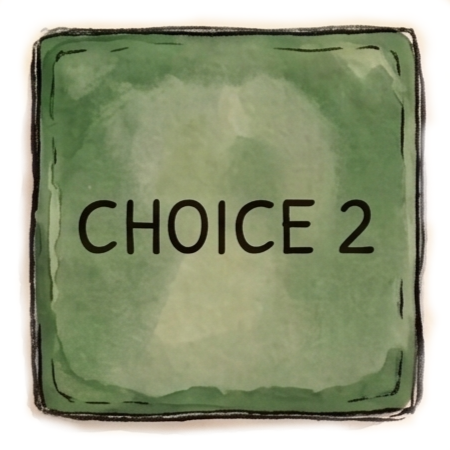
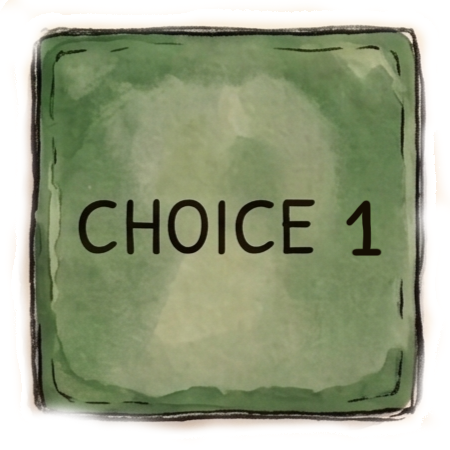
version 5.1.5

diff --git a/sketch.js b/sketch.js
@@ -4,6 +4,7 @@ const ASSET_DIR = "Bremen Image Material";
 const LIGHT_START_THRESHOLD = 650;
 const MINI_GAME_LIGHT_THRESHOLD = 650;
 const SERIAL_BAUD_RATE = 9600;
+const MINI_GAME_CATCH_WINDOW = 82;
 
 const COLORS = {
   ink: "#2b1b10",
@@ -50,6 +51,7 @@ const FILES = {
   yellowChoice1: "UI Buttons yellow button choice 1.png",
   greenChoice2: "UI Buttons green button choice 2.png",
   whiteChoice3: "UI Buttons white button choice 3.png",
+  redRetry: "UI Buttons Red choice Retry .png",
   sliderUi: "Slider UI.png",
   lightUi: "Light sensor UI.png",
   textBox: "text box ui.png",
@@ -106,6 +108,7 @@ function draw() {
   else if (appState === "choice") drawChoicePage();
   else if (appState === "miniIntro") drawMiniIntro();
   else if (appState === "miniGame") drawMiniGame();
+  else if (appState === "miniResult") drawMiniResult();
   else if (appState === "fade") drawFade();
 
   pop();
@@ -148,32 +151,29 @@ function drawSceneImage(assetKey, overlay = 52) {
 
 function drawStart() {
   drawSceneImage("start", 48);
-  drawTextBoxUi(74, 74, 610, 482);
-  fill(COLORS.ink);
+  fill(COLORS.paper);
+  textAlign(CENTER, CENTER);
   textStyle(BOLD);
-  textSize(50);
-  text("The Bremen", 116, 142);
-  text("Town Musicians", 116, 200);
+  textSize(58);
+  text("The Bremen", 688, 206);
+  text("Town Musicians", 688, 274);
 
   textStyle(NORMAL);
-  textSize(23);
-  textLeading(32);
-  text(
-    `Cover the light sensor until the value is ${LIGHT_START_THRESHOLD} or higher. The story begins from this page once the threshold is met.`,
-    116,
-    258,
-    522,
-    128
-  );
-
-  drawUiImage("lightUi", 112, 406, 134, 98);
-  drawUiImage("redContinue", 112, 506, 42, 42);
-  fill(COLORS.ink);
-  textSize(21);
-  text(`Current light: ${lastLightValue ?? "--"}`, 270, 452);
   textSize(18);
-  fill("#684221");
-  text("Red continues. Yellow, green, and white choose when choices appear.", 170, 534, 468);
+  textLeading(22);
+  const buttonY = 390;
+  drawUiImage("lightUi", 284, buttonY - 34, 128, 92);
+  drawUiImage("redContinue", 510, buttonY, 54, 54);
+  drawUiImage("yellowChoice1", 662, buttonY, 54, 54);
+  drawUiImage("greenChoice2", 814, buttonY, 54, 54);
+  drawUiImage("whiteChoice3", 966, buttonY, 54, 54);
+  fill(COLORS.paper);
+  text(`Start story\nLight ${lastLightValue ?? "--"}/${LIGHT_START_THRESHOLD}`, 348, 484, 170, 54);
+  text("Continue", 537, 484, 130, 44);
+  text("Choice 1", 689, 484, 130, 44);
+  text("Choice 2", 841, 484, 130, 44);
+  text("Choice 3", 993, 484, 130, 44);
+  textAlign(LEFT, BASELINE);
 }
 
 function drawNarrativePage() {
@@ -204,14 +204,14 @@ function drawMiniGame() {
   drawSceneImage("lookingInside", 34);
   updateMiniGame();
 
-  drawPanel(54, 44, 468, 114, COLORS.panelStrong);
-  fill(COLORS.paper);
+  drawTextBoxUi(54, 58, 500, 128);
+  fill(COLORS.ink);
   textStyle(BOLD);
   textSize(28);
-  text("Stack the Musicians", 82, 86);
+  text("Stack the Musicians", 92, 100);
   textStyle(NORMAL);
   textSize(18);
-  text(`Catch the falling companion with the donkey. Slider value: ${Math.round(lastSliderValue)}`, 82, 122);
+  text(`Catch the falling companion with the donkey.\nSlider value: ${Math.round(lastSliderValue)}`, 92, 128);
   drawUiImage("sliderUi", 928, 52, 324, 65);
 
   imageMode(CENTER);
@@ -221,6 +221,33 @@ function drawMiniGame() {
     image(img, miniGame.faller.x, miniGame.faller.y, animalWidth(miniGame.faller.kind), animalHeight(miniGame.faller.kind));
   }
   imageMode(CORNER);
+}
+
+function drawMiniResult() {
+  drawSceneImage("lookingInside", 38);
+  imageMode(CENTER);
+  drawStackedDonkeyAndCompanions();
+  imageMode(CORNER);
+
+  const caughtAny = miniGame.stack.length > 0;
+  drawTextBoxUi(384, 82, 608, caughtAny ? 176 : 224);
+  fill(COLORS.ink);
+  textAlign(CENTER, TOP);
+  textStyle(BOLD);
+  textSize(30);
+  text(caughtAny ? "Good job, you built a tower!" : "Try building the tower again.", 430, 128, 516, 44);
+  textStyle(NORMAL);
+  textSize(18);
+  textLeading(24);
+  if (caughtAny) {
+    drawUiImage("redContinue", 638, 184, 54, 54);
+    text("Press red to continue.", 430, 248, 516, 30);
+  } else {
+    text("Catch at least one animal before the story continues.", 430, 180, 516, 52);
+    drawUiImage("redRetry", 638, 244, 54, 54);
+    text("Press red to retry.", 430, 310, 516, 30);
+  }
+  textAlign(LEFT, BASELINE);
 }
 
 function drawFade() {
@@ -259,10 +286,10 @@ function drawTextBox(body, footer, position) {
 }
 
 function getTextBox(position) {
-  if (position === "top") return { x: 74, y: 48, w: 1228, h: 178, minW: 660, minH: 126, fontSize: 21, leading: 28, padX: 42, padY: 34 };
-  if (position === "right") return { x: 716, y: 82, w: 586, h: 394, minW: 430, minH: 158, fontSize: 21, leading: 29, padX: 38, padY: 36 };
-  if (position === "bottom") return { x: 84, y: 514, w: 1208, h: 180, minW: 620, minH: 128, fontSize: 20, leading: 27, padX: 42, padY: 34 };
-  return { x: 74, y: 82, w: 610, h: 420, minW: 430, minH: 158, fontSize: 21, leading: 29, padX: 38, padY: 36 };
+  if (position === "top") return { x: 74, y: 74, w: 1228, h: 178, minW: 660, minH: 126, fontSize: 21, leading: 28, padX: 42, padY: 34 };
+  if (position === "right") return { x: 716, y: 112, w: 586, h: 394, minW: 430, minH: 158, fontSize: 21, leading: 29, padX: 38, padY: 36 };
+  if (position === "bottom") return { x: 84, y: 536, w: 1208, h: 180, minW: 620, minH: 128, fontSize: 20, leading: 27, padX: 42, padY: 34 };
+  return { x: 74, y: 112, w: 610, h: 420, minW: 430, minH: 158, fontSize: 21, leading: 29, padX: 38, padY: 36 };
 }
 
 function layoutTextBox(body, footer, position) {
@@ -353,17 +380,13 @@ function drawTextBoxUi(x, y, w, h) {
 function drawChoiceCard(x, y, w, h, option, index) {
   drawTextBoxUi(x, y, w, h);
   const uiKey = index === 0 ? "yellowChoice1" : index === 1 ? "greenChoice2" : "whiteChoice3";
-  drawUiImage(uiKey, x + 22, y + 22, 62, 62);
+  drawUiImage(uiKey, x + w / 2 - 31, y + 18, 62, 62);
   fill(COLORS.ink);
   textAlign(LEFT, TOP);
-  textStyle(BOLD);
-  textSize(20);
-  textLeading(24);
-  text(option.label, x + 100, y + 33, w - 128, 32);
   textStyle(NORMAL);
   textSize(15);
   textLeading(20);
-  text(option.text, x + 30, y + 98, w - 60, h - 120);
+  text(option.text, x + 30, y + 96, w - 60, h - 118);
   textAlign(LEFT, BASELINE);
 }
 
@@ -748,23 +771,41 @@ function updateMiniGame() {
   const faller = miniGame.faller;
   faller.y += faller.speed;
   faller.x = faller.baseX + sin(frameCount * 0.055 + faller.phase) * 95;
+  const catchY = stackTargetY(miniGame.stack.length);
 
-  if (faller.y > 535 && abs(faller.x - miniGame.donkeyX) < 150) {
+  if (faller.y > catchY && faller.y < catchY + MINI_GAME_CATCH_WINDOW && abs(faller.x - miniGame.donkeyX) < 150) {
     miniGame.stack.push(faller.kind);
     miniGame.currentIndex += 1;
-    if (miniGame.currentIndex >= miniGame.animals.length) {
-      fade = { startedAt: millis(), image: "crash" };
-      appState = "fade";
-    } else {
-      spawnNextFaller();
-    }
-  } else if (faller.y > 820) {
+    advanceMiniGameFaller();
+  } else if (faller.y > catchY + MINI_GAME_CATCH_WINDOW) {
+    miniGame.currentIndex += 1;
+    advanceMiniGameFaller();
+  }
+}
+
+function stackTargetY(index) {
+  return 640 - 110 - index * 82;
+}
+
+function advanceMiniGameFaller() {
+  if (miniGame.currentIndex >= miniGame.animals.length) {
+    miniGame.faller = null;
+    appState = "miniResult";
+  } else {
     spawnNextFaller();
   }
 }
 
 function handleContinueButton() {
   if (appState === "page") continueStory();
+  else if (appState === "miniResult") {
+    if (miniGame.stack.length > 0) {
+      fade = { startedAt: millis(), image: "crash" };
+      appState = "fade";
+    } else {
+      startMiniGame();
+    }
+  }
 }
 
 function handleLightValue(value) {

diff --git a/PROJECT_SOURCE_OF_TRUTH.md b/PROJECT_SOURCE_OF_TRUTH.md
@@ -180,8 +180,9 @@ Bad ending:
 - Road transition images may be inserted between encounters so a previous animal scene does not remain visible during the next encounter.
 - Transparent animal images are used only for the tower stacking mini-game.
 - Text boxes are semi-transparent when they overlap full scene images.
+- The start page does not use the story text-box UI. Its title is centered, with compact control explanations below it.
 - Narrative text boxes resize to the current text instead of using one fixed box size for every page.
-- Choice screens use one separate text-box UI image for each choice option.
+- Choice screens use one separate text-box UI image for each choice option. The button image is centered at the top of each choice box, and the old "Choice 1/2/3" text titles are not shown.
 - The old bottom party indicator has been removed.
 - Scene images are drawn with full-image containment to avoid cropping/over-zooming.
 
@@ -255,6 +256,7 @@ UI:
 - `UI Buttons yellow button choice 1.png`
 - `UI Buttons green button choice 2.png`
 - `UI Buttons white button choice 3.png`
+- `UI Buttons Red choice Retry .png`
 - `Slider UI.png`
 - `Light sensor UI.png`
 
@@ -270,9 +272,11 @@ Flow:
 4. Slider moves the donkey horizontally.
 5. One joined companion falls at a time in a zigzag motion.
 6. If caught, the companion stacks on the donkey and remains visible.
-7. The next joined companion falls.
-8. When all joined companions are stacked, a short fade transition plays.
-9. The story continues to the robber/ending sequence.
+7. The catch height follows the current stack height, so later animals snap onto the top of the tower instead of falling into the lower animal.
+8. If an animal is missed, the game advances to the next joined companion.
+9. After all joined companions have had a turn, a result screen appears.
+10. If at least one animal was caught, the result says "Good job, you built a tower!" and the red button continues.
+11. If no animals were caught, the result screen uses the red retry button and the player must retry before the story continues.
 
 Mini-game assets:
 
@@ -280,6 +284,10 @@ Mini-game assets:
 - `dog sitting full body transparent background.png`
 - `cat full body transparent background.png`
 - `rooster full body transparent background.png`
+
+Mini-game constants:
+
+- `MINI_GAME_CATCH_WINDOW = 82`
 
 ## Board Layout Mockup
 
